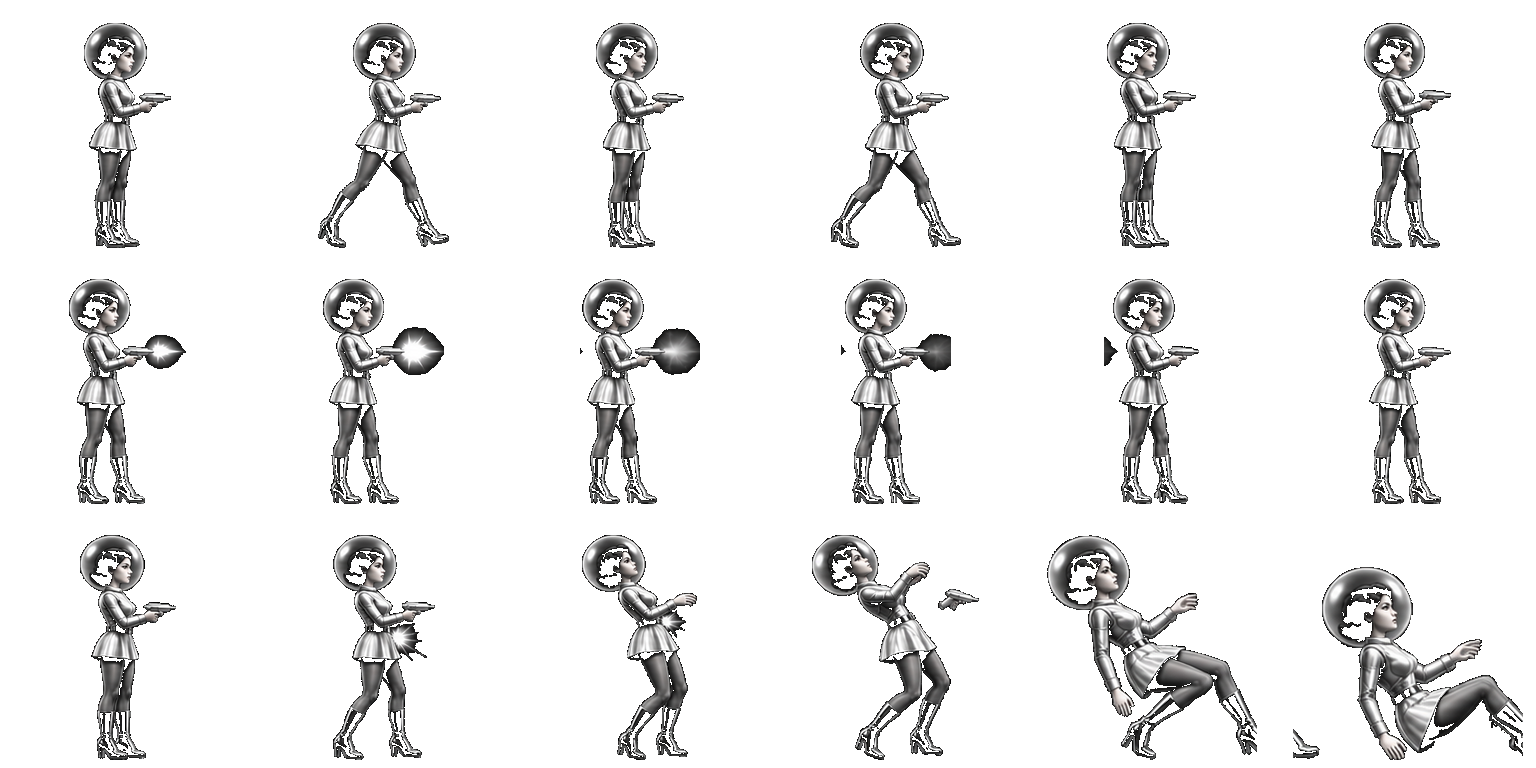
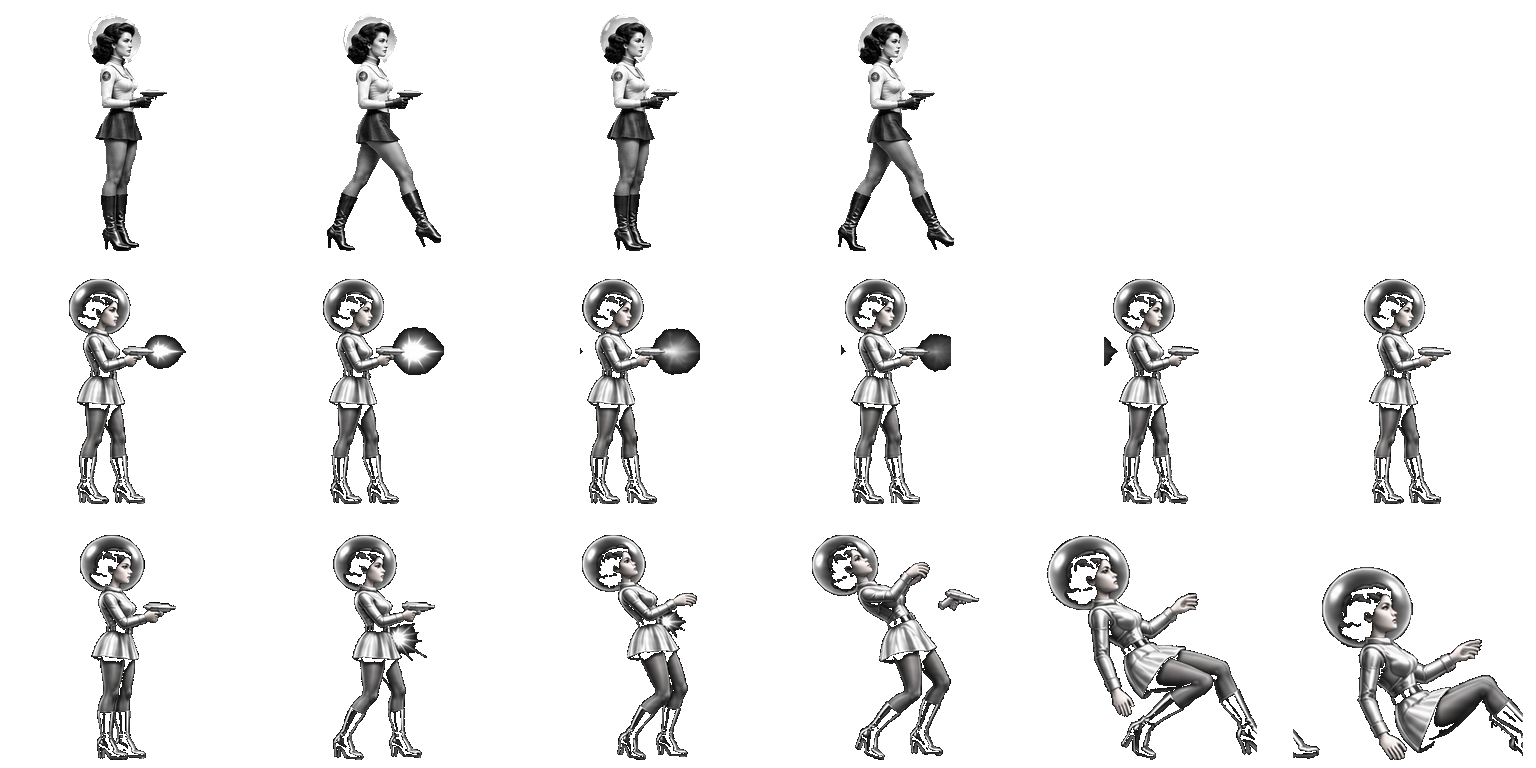
v4

diff --git a/orion_v4_5.html b/orion_v4_5.html
@@ -1,7 +1,23 @@
-<!doctype html><html lang="hu"><head><meta charset="utf-8"><meta name="viewport" content="width=device-width,initial-scale=1,maximum-scale=1,user-scalable=no,viewport-fit=cover"><meta name="theme-color" content="#090909"><title>ORION • Fedezőtűz v4.0</title><style>
+<!doctype html><html lang="hu"><head><meta charset="utf-8"><meta name="viewport" content="width=device-width,initial-scale=1,maximum-scale=1,user-scalable=no,viewport-fit=cover"><meta name="theme-color" content="#090909"><title>ORION • Fedezőtűz v4.5</title><style>
 *{box-sizing:border-box}html,body{margin:0;width:100%;height:100%;overflow:hidden;background:#080808;color:#f3f3f3;font:15px system-ui,Arial;touch-action:none}canvas{position:absolute;inset:0;width:100%;height:100%;display:block}#hud{position:absolute;top:8px;left:12px;font:600 clamp(11px,1.55vw,17px) monospace;text-shadow:0 2px 3px #000;pointer-events:none;line-height:1.6;z-index:2}#ver{position:absolute;top:8px;right:12px;border:1px solid #aaa;background:#111c;padding:4px 9px;font:700 14px monospace;z-index:3}#buttons{position:absolute;bottom:12px;right:14px;display:flex;gap:12px;z-index:4}button{border:2px solid #eee;background:#171717e8;color:#fff;border-radius:10px;font-weight:800;font-size:clamp(14px,2.2vw,24px);padding:11px 22px;min-width:100px;touch-action:none}button:active{background:#777}#fire{background:#e5e5e5;color:#111;min-width:125px}#zero{position:absolute;bottom:13px;left:14px;z-index:4;min-width:80px;font-size:13px;padding:9px}#overlay{position:absolute;top:42px;right:12px;z-index:8;background:transparent;display:flex;align-items:flex-start;justify-content:flex-end;text-align:center;padding:0;pointer-events:none}#overlay.ending{inset:0;background:#080808ed;align-items:center;justify-content:center;padding:20px;pointer-events:auto}#panel{max-width:min(370px,45vw);max-height:75vh;overflow:auto;padding:12px 15px;background:#111e;border:1px solid #aaa;border-radius:9px;pointer-events:auto}#overlay.ending #panel{max-width:650px}h1{font-size:clamp(17px,2.3vw,27px);margin:0 0 8px;letter-spacing:.08em}p{font-size:clamp(11px,1.25vw,14px);line-height:1.5}#msg{color:#ddd;min-height:1.4em}#start{background:#e7e7e7;color:#111}#notice{position:absolute;left:50%;top:14%;transform:translateX(-50%);font:800 clamp(17px,3vw,32px) monospace;text-shadow:0 3px 5px #000;pointer-events:none;z-index:3;text-align:center}#cross{position:absolute;width:42px;height:42px;transform:translate(-50%,-50%);pointer-events:none;z-index:3;filter:drop-shadow(0 1px 2px #000)}#cross:before,#cross:after{content:"";position:absolute;background:#fff}#cross:before{width:42px;height:2px;top:20px}#cross:after{height:42px;width:2px;left:20px}#cross i{position:absolute;left:12px;top:12px;width:18px;height:18px;border:2px solid #fff;border-radius:50%}#impact{position:absolute;width:14px;height:14px;border:2px solid #fff;border-radius:50%;transform:translate(-50%,-50%);display:none;z-index:5;pointer-events:none}#hint{position:absolute;left:50%;bottom:15px;transform:translateX(-50%);font:12px monospace;color:#bbb;pointer-events:none;z-index:2;white-space:nowrap}@media(max-height:400px){button{padding:7px 15px}#zero{padding:6px}#buttons{bottom:7px}}
 #soundbar{position:absolute;right:14px;top:43px;z-index:6;display:flex;gap:5px;align-items:flex-start}#soundbar button{min-width:0;font-size:12px;padding:5px 9px;border-width:1px;border-radius:6px}#soundPanel{position:absolute;right:0;top:35px;background:#151515ed;border:1px solid #999;padding:12px;border-radius:8px;width:190px}#soundPanel[hidden]{display:none}#soundPanel label{display:block;font:12px monospace;margin:5px 0}#soundPanel input{display:block;width:100%;accent-color:#ddd;touch-action:auto}
-</style></head><body><canvas id="scene"></canvas><div id="cross"><i></i></div><div id="impact"></div><div id="hud"><div id="status">SZAKASZ 01 · FEDŐTŰZ</div><div id="team"></div><div id="score"></div></div><div id="ver">ORION v4.4 · KATONÁK ÉS ROBBANÁS</div><div id="notice"></div><div id="soundbar"><button id="soundToggle" title="Hang ki/be">🔊 HANG</button><button id="soundSettings" title="Hangerő">⚙</button><div id="soundPanel" hidden><label>Zene <input id="musicVol" type="range" min="0" max="100" value="55"></label><label>Effektek <input id="sfxVol" type="range" min="0" max="100" value="75"></label><label>Beszéd <input id="voiceVol" type="range" min="0" max="100" value="100"></label></div></div><div id="buttons"><button id="speed">SEB. 2×</button><button id="zoom">ZOOM 1×</button><button id="fire">TŰZ</button></div><button id="zero">KÖZÉP</button><div id="hint">TELEFON MOZGATÁSA: CÉLZÁS ÉS KAMERAGÖRGETÉS · TŰZ / ZOOM / SEBESSÉG</div><div id="overlay"><div id="panel"><h1>ORION · FEDEZŐTŰZ</h1><p>1966-os fekete-fehér sci-fi mesterlövész-próba.<br>Három katonád egy nagy, négyemeletes bázison hajt végre oda-vissza küldetést, majd lifttel visszatér a földszintre és a bejáraton távozik. Védd őket a robotpókoktól és gyíklényektől! A katonák maguk is lőnek, de megsérülhetnek. A lőszer korlátlan. <b>Baráti tűz aktív.</b></p><p>Találd el a lények <b>világos magját / fejét</b> az azonnali kiiktatáshoz. Lődd a kapcsolókat az ajtók nyitásához vagy zárásához, és használd a robbanó hordókat – de vigyázz a sajátjaidra! Minden ajtó kapcsolója csak az egyik oldalon található. A katonák csak a saját oldalukon lévő kapcsolót tudják használni. A csapat a liftnél bevárja az utolsó élőt. A zsákutcában lévő konzolt a katonák 30 másodperc alatt törik fel, miközben fedezned kell őket. Néhány ajtót kizárólag te nyithatsz lövéssel. A lények az ajtókból jönnek; a gyíklény képes ajtót nyitni, a pók nem. A ZOOM gomb a célkereszt körüli kerek céltávcsőben 1× / 1,2× / 1,5× nagyítást vált. A SEB. gomb állítja a célzás érzékenységét. A telefon elforgatásával célzol; a képernyő szélén tartott célkereszt folyamatosan görgeti a pályát. A KÖZÉP gomb a kamerát is visszaállítja.</p><button id="start">KÜLDETÉS INDÍTÁSA</button><p id="msg"></p></div></div><script>
+
+:root{--topbar:48px;--bottombar:68px}
+#topBand{position:absolute;top:0;left:0;right:0;height:var(--topbar);background:#090909;z-index:2;border-bottom:1px solid #777}
+#bottomBand{position:absolute;bottom:0;left:0;right:0;height:var(--bottombar);background:#090909;z-index:2;border-top:1px solid #777}
+#notice{top:7px!important;font-size:clamp(18px,3.5vw,29px)!important;white-space:nowrap;max-width:64%;overflow:hidden;text-overflow:ellipsis}
+#hud{top:3px!important;left:6px!important;font-size:clamp(9px,1.1vw,12px)!important;line-height:1.25!important;max-width:24%}
+#ver{top:3px!important;right:5px!important;font-size:10px!important;padding:3px!important}
+#buttons{bottom:9px!important;right:12px!important}
+#zero{bottom:9px!important}
+#hint{display:none!important}
+#overlay:not(.ending){inset:0!important;align-items:flex-start!important;justify-content:center!important;padding:4px!important;background:transparent!important}
+#overlay:not(.ending) #panel{background:#111!important;padding:2px 6px!important;max-width:230px!important;border:1px solid #aaa!important}
+#overlay:not(.ending) h1,#overlay:not(.ending) p{display:none!important}
+#overlay:not(.ending) #start{font-size:12px;padding:6px 12px;min-width:unset}
+#soundbar{bottom:calc(var(--bottombar) + 4px)!important;top:auto!important}
+@media(max-height:450px){:root{--topbar:42px;--bottombar:58px}#buttons button{padding:6px 10px!important;min-width:75px!important;font-size:13px!important}#fire{min-width:85px!important}}
+</style></head><body><canvas id="scene"></canvas><div id="topBand"></div><div id="bottomBand"></div><div id="cross"><i></i></div><div id="impact"></div><div id="hud"><div id="status">SZAKASZ 01 · FEDŐTŰZ</div><div id="team"></div><div id="score"></div></div><div id="ver">ORION v4.5 · KATONÁK ÉS ROBBANÁS</div><div id="notice"></div><div id="soundbar"><button id="soundToggle" title="Hang ki/be">🔊 HANG</button><button id="soundSettings" title="Hangerő">⚙</button><div id="soundPanel" hidden><label>Zene <input id="musicVol" type="range" min="0" max="100" value="55"></label><label>Effektek <input id="sfxVol" type="range" min="0" max="100" value="75"></label><label>Beszéd <input id="voiceVol" type="range" min="0" max="100" value="100"></label></div></div><div id="buttons"><button id="speed">SEB. 2×</button><button id="zoom">ZOOM 1×</button><button id="fire">TŰZ</button></div><button id="zero">KÖZÉP</button><div id="hint">TELEFON MOZGATÁSA: CÉLZÁS ÉS KAMERAGÖRGETÉS · TŰZ / ZOOM / SEBESSÉG</div><div id="overlay"><div id="panel"><h1>ORION · FEDEZŐTŰZ</h1><p>1966-os fekete-fehér sci-fi mesterlövész-próba.<br>Három katonád egy nagy, négyemeletes bázison hajt végre oda-vissza küldetést, majd lifttel visszatér a földszintre és a bejáraton távozik. Védd őket a robotpókoktól és gyíklényektől! A katonák maguk is lőnek, de megsérülhetnek. A lőszer korlátlan. <b>Baráti tűz aktív.</b></p><p>Találd el a lények <b>világos magját / fejét</b> az azonnali kiiktatáshoz. Lődd a kapcsolókat az ajtók nyitásához vagy zárásához, és használd a robbanó hordókat – de vigyázz a sajátjaidra! Minden ajtó kapcsolója csak az egyik oldalon található. A katonák csak a saját oldalukon lévő kapcsolót tudják használni. A csapat a liftnél bevárja az utolsó élőt. A zsákutcában lévő konzolt a katonák 30 másodperc alatt törik fel, miközben fedezned kell őket. Néhány ajtót kizárólag te nyithatsz lövéssel. A lények az ajtókból jönnek; a gyíklény képes ajtót nyitni, a pók nem. A ZOOM gomb a célkereszt körüli kerek céltávcsőben 1× / 1,2× / 1,5× nagyítást vált. A SEB. gomb állítja a célzás érzékenységét. A telefon elforgatásával célzol; a képernyő szélén tartott célkereszt folyamatosan görgeti a pályát. A KÖZÉP gomb a kamerát is visszaállítja.</p><button id="start">KÜLDETÉS INDÍTÁSA</button><p id="msg"></p></div></div><script>
 'use strict';
 const $=id=>document.getElementById(id),canvas=$('scene'),ctx=canvas.getContext('2d');
 
@@ -26,7 +42,7 @@ const route=[{level:0,x:2870},{level:2,x:2870,lift:1},{level:2,x:470},{level:1,x
 const elevators=[{x:470,stops:[0,1,2,3]},{x:2870,stops:[0,2,3]}];
 function liftStops(lift,level){return lift.stops.includes(level);}
 function switchSide(d){return d.switchSide;}
-function resize(){vw=innerWidth;vh=innerHeight;dpr=Math.min(devicePixelRatio||1,2);canvas.width=Math.round(vw*dpr);canvas.height=Math.round(vh*dpr);scale=Math.max(vw/W,vh/(3*190));}addEventListener('resize',resize);resize();
+function topBandH(){return innerHeight<=450?42:48;}function bottomBandH(){return innerHeight<=450?58:68;}function resize(){vw=innerWidth;vh=innerHeight;dpr=Math.min(devicePixelRatio||1,2);canvas.width=Math.round(vw*dpr);canvas.height=Math.round(vh*dpr);scale=Math.max(vw/W,(vh-topBandH()-bottomBandH())/(2*190));}addEventListener('resize',resize);resize();
 function tell(s,t=1.2){$('notice').textContent=s;noticeUntil=performance.now()+t*1000;}
 function floorY(n){return FLOORS[n];}
 // A kapcsolók és az ütközés pontosan a kirajzolt falcellákhoz igazodnak.
@@ -152,7 +168,7 @@ function enemyMove(dt){const live=living();for(const e of enemies){if(!e.alive)c
 function update(dt){if(!active)return;for(const s of soldiers){if(!s.alive)s.deathTime=Math.min(.9,(s.deathTime||0)+dt);}for(const e of enemies){if(!e.alive)e.deathTime=Math.min(.9,(e.deathTime||0)+dt);}elapsed+=dt;spawnAt-=dt;if(spawnAt<=0&&spawnCount<220){spawn();spawnAt=rnd(1.25,2.25);}for(const p of portals)p.flash=Math.max(0,p.flash-dt);teamMove(dt);updateTeamDoors(dt);enemyMove(dt);for(const e of effects){e.t+=dt;if(e.chain&&e.t>=0&&!e.done){e.done=true;explosion(e.x,e.y,e.r);}}effects=effects.filter(e=>e.t<(e.boom?.8:.4));if(!living().length){finish(false);return;}if(elapsed>1100){finish(false);return;}
  $('team').textContent='CSAPAT HP: '+soldiers.map(s=>`${s.id+1}:${Math.max(0,Math.ceil(s.hp))}`).join('  ')+' · '+(living()[0].level+1)+'. SZINT';$('score').textContent=`LŐSZER: ∞ · LÉNYEK: ${frags} · BARÁTI TŰZ: ${friendHits} · FÁZIS: ${routeIndex+1}/${route.length}`;
 }
-function camera(){return {sx:scale,tx:-camX*scale,ty:-camY*scale};}
+function camera(){return {sx:scale,tx:-camX*scale,ty:topBandH()-camY*scale};}
 function screenToWorld(x,y){const c=camera();return {x:(x-c.tx)/c.sx,y:(y-c.ty)/c.sx};}
 function aimWorld(){return screenToWorld(aimX,aimY);}
 // Az elforgatott telefon célkeresztje a képernyő szélén a kamerát is görgeti.
@@ -162,10 +178,10 @@ function aimCamera(dt){
  const live=living();if(!live.length)return;
  const center=live.reduce((sum,s)=>sum+s.x,0)/live.length;
  const floor=live[0].level;
- const visibleW=vw/scale,visibleH=vh/scale;
+ const visibleW=vw/scale,visibleH=(vh-topBandH()-bottomBandH())/scale;
  const followX=center-visibleW*.48,followY=floorY(floor)-visibleH+16;
  // A képernyő szélső 17%-ában folyamatos pásztázás, nem csak egyszeri eltolás.
- const edgeX=aimX/vw,edgeY=aimY/vh;
+ const edgeX=aimX/vw,edgeY=(aimY-topBandH())/Math.max(1,vh-topBandH()-bottomBandH());
  const pushX=edgeX>.83?(edgeX-.83)/.17:edgeX<.17?-(.17-edgeX)/.17:0;
  const pushY=edgeY>.82?(edgeY-.82)/.18:edgeY<.18?-(.18-edgeY)/.18:0;
  if(Math.abs(pushX)>.04||Math.abs(pushY)>.04)lookActive=true;
@@ -244,7 +260,7 @@ function background(){ctx.fillStyle='#242424';ctx.fillRect(0,0,WW,HH);
   // A járda a falatlasz része; a zárt merőleges ajtó alatt nem rajzolunk rá folyamatos padlóvonalat.
  }
 }
-function consoleDraw(){const wp=route[4],y=floorY(wp.level);ctx.fillStyle='#fff';ctx.font='bold 15px monospace';if(routeIndex===4)ctx.fillText('FELTÖRÉS '+Math.ceil(Math.max(0,30-holdTime))+'s',wp.x-58,y-195);if(routeIndex===4)bar(wp.x-37,y-189,74,holdTime/30);}
+function consoleDraw(){const wp=route[4],y=floorY(wp.level);ctx.fillStyle='#fff';ctx.font='bold 15px monospace';if(routeIndex===4)ctx.fillText('',wp.x-58,y-195);if(routeIndex===4)bar(wp.x-37,y-189,74,holdTime/30);}
 function soldierDraw(s){
  const y=floorY(s.level);
  // A lövés a hanggal azonos pillanatban indul, 0.48 s alatt egyszer fut le.
@@ -256,7 +272,7 @@ function soldierDraw(s){
  else if(s.state==='walk')fr=Math.floor((s.walkDistance||0)/(32.0/2))%4;
  frameSprite(s.id===1?'soldier_female':'soldier_male',fr,s.x,y-10.5,88,104,s.dir||1);
  if(!s.alive)return;
- ctx.fillStyle='#fff';ctx.font='bold 13px monospace';ctx.fillText(String(s.id+1),s.x-4,y-69);bar(s.x-25,y-147,50,s.hp/100);
+ bar(s.x-25,y-147,50,s.hp/100);
 }
 function enemyDraw(e){
  if(!e.alive&&(e.deathTime||0)>.89)return;const y=floorY(e.level);ctx.save();ctx.globalAlpha=e.alive?1-e.emerging/.75:1;
@@ -269,7 +285,7 @@ function enemyDraw(e){
 }
 function barrelDraw(b){if(b.alive)tile('barrel',b.x-23,floorY(b.level)-10.5-55,46,55);}
 function worldDraw(){background();consoleDraw();for(const b of barrels)barrelDraw(b);for(const s of soldiers)soldierDraw(s);for(const e of enemies)enemyDraw(e);for(const fx of effects){if(fx.t<0)continue;if(fx.boom){const fr=Math.min(11,Math.floor(fx.t/.8*12));frameSprite('explosion',fr,fx.x,fx.y+76,170,160,1);}else{ctx.save();ctx.globalAlpha=Math.max(0,1-fx.t/.4);ctx.strokeStyle='#fff';ctx.lineWidth=2;ctx.beginPath();ctx.moveTo(fx.x-8,fx.y-8);ctx.lineTo(fx.x+8,fx.y+8);ctx.moveTo(fx.x-8,fx.y+8);ctx.lineTo(fx.x+8,fx.y-8);ctx.stroke();ctx.restore();}}}
-function draw(){ctx.setTransform(dpr,0,0,dpr,0,0);ctx.fillStyle='#060606';ctx.fillRect(0,0,vw,vh);const c=camera();ctx.save();ctx.translate(c.tx,c.ty);ctx.scale(c.sx,c.sx);worldDraw();ctx.restore();if(zoom>1){const r=Math.min(vw,vh)*.1025,cx=aimX,cy=aimY;ctx.save();ctx.beginPath();ctx.arc(cx,cy,r,0,Math.PI*2);ctx.clip();ctx.translate(cx*(1-zoom),cy*(1-zoom));ctx.scale(zoom,zoom);ctx.fillStyle='#080808';ctx.fillRect(0,0,vw,vh);ctx.save();ctx.translate(c.tx,c.ty);ctx.scale(c.sx,c.sx);worldDraw();ctx.restore();ctx.restore();ctx.save();ctx.strokeStyle='#eee';ctx.lineWidth=2;ctx.beginPath();ctx.arc(cx,cy,r,0,Math.PI*2);ctx.stroke();ctx.restore();}}
+function draw(){if(active&&routeIndex===4&&holdTime>0){$('notice').textContent='FELTÖRÉS: '+Math.ceil(Math.max(0,30-holdTime))+' MP';noticeUntil=performance.now()+200;}ctx.setTransform(dpr,0,0,dpr,0,0);ctx.fillStyle='#060606';ctx.fillRect(0,0,vw,vh);const c=camera();ctx.save();ctx.beginPath();ctx.rect(0,topBandH(),vw,vh-topBandH()-bottomBandH());ctx.clip();ctx.translate(c.tx,c.ty);ctx.scale(c.sx,c.sx);worldDraw();ctx.restore();if(zoom>1){const r=Math.min(vw,vh)*.1025,cx=aimX,cy=aimY;ctx.save();ctx.beginPath();ctx.arc(cx,cy,r,0,Math.PI*2);ctx.clip();ctx.translate(cx*(1-zoom),cy*(1-zoom));ctx.scale(zoom,zoom);ctx.fillStyle='#080808';ctx.fillRect(0,0,vw,vh);ctx.save();ctx.translate(c.tx,c.ty);ctx.scale(c.sx,c.sx);worldDraw();ctx.restore();ctx.restore();ctx.save();ctx.strokeStyle='#eee';ctx.lineWidth=2;ctx.beginPath();ctx.arc(cx,cy,r,0,Math.PI*2);ctx.stroke();ctx.restore();}}
 function frame(t){const dt=Math.min((t-(prevFrame||t))/1000,.05);prevFrame=t;update(dt);aimCamera(dt);draw();if(t>noticeUntil)$('notice').textContent='';requestAnimationFrame(frame);}requestAnimationFrame(frame);
 // Stable orientation-to-aim mapping from the tested HEATWAVE v2.4; no grid.
 const PI=Math.PI,rad=PI/180;
